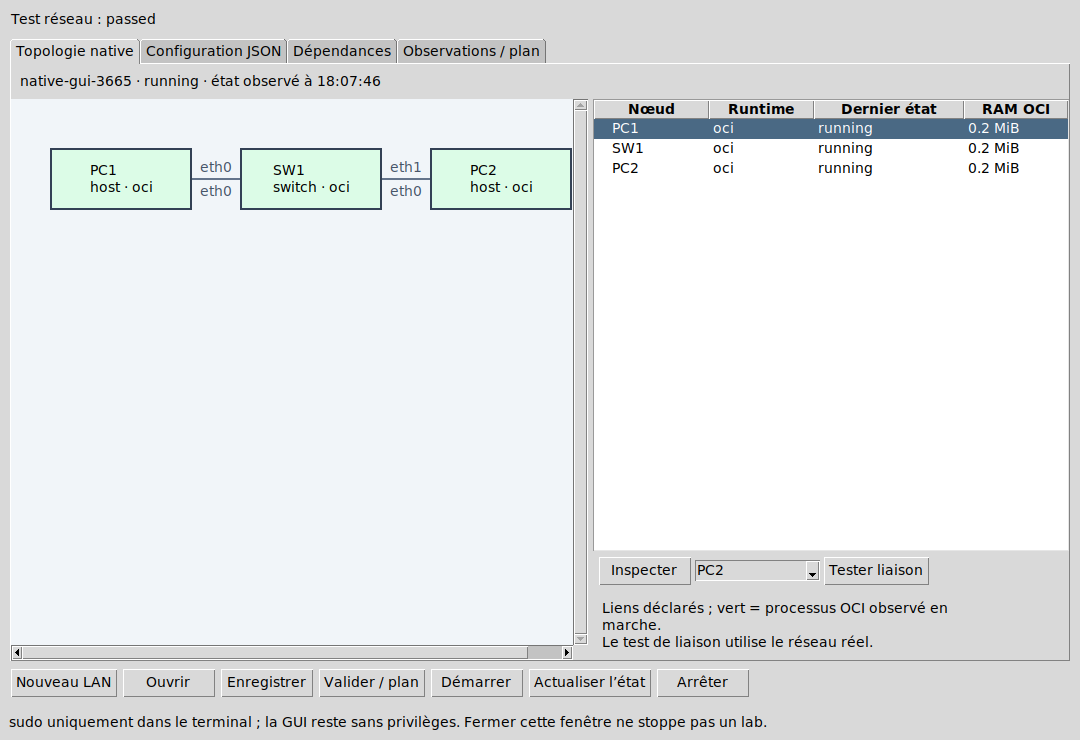
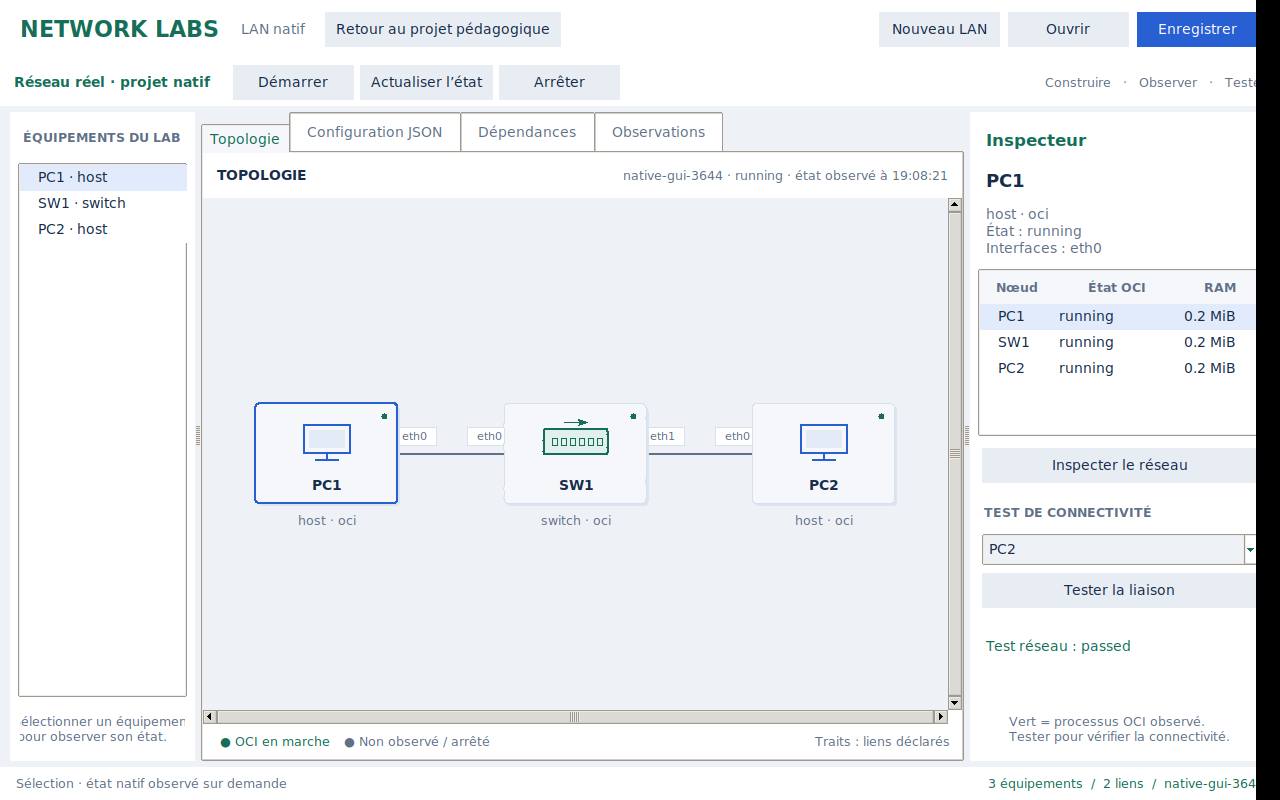
Retain verified embedded desktop screenshot and GUI handoff [skip ci]

diff --git a/docs/NATIVE_GUI_FLOW.md b/docs/NATIVE_GUI_FLOW.md
@@ -1,9 +1,9 @@
 # Native GUI lifecycle and observations
 
 The native workbench now has a topology view and a real backend result path.
-Open it from the desktop's existing native-lab entry. It remains distinct
-from the educational canvas and Wasm backend; opening this window does not
-change their selected execution engine.
+Open it from the desktop's existing native-lab entry. It uses the agreed
+main-window layout while keeping native state separate from the educational
+canvas and Wasm backend. Returning restores their existing project and engine.
 
 ## First usable flow
 
@@ -94,8 +94,8 @@ This is the actual Xvfb capture after real native verification.
 The public [operation report](images/native-gui-result.json) records the UI UID,
 result-file owners, native probe and stop outcome. The
 [provenance record](images/native-gui-provenance.json) binds both files to
-artifact 13528680261, source commit and run/job, with the verified original ZIP
-SHA-256 and individual file hashes. The full suite passed on the same commit.
+artifact 13533009570, source commit and run/job, with the verified original ZIP
+SHA-256 and individual file hashes. The desktop/native job passed on the same commit.
 
 ## Agreed desktop layout
 
@@ -113,3 +113,17 @@ list selects existing native devices; graphical creation/cabling and full
 per-device forms remain pending. JSON, dependencies and detailed observations
 are available as central tabs. This is alignment with the agreed layout, not
 completion of all GUI editing workflows.
+
+
+At source `a82b0571194f81759e29bf6e50d8e5b65dfd8664`, the
+[desktop/native job](https://github.com/sou1915/Network-LABS/actions/runs/42276785462/job/128095032017)
+passed 1033 regression cases in 47.945 seconds (116 environment/opt-in skips).
+The real native GUI test passed in 4.466 seconds using the actual main App and
+embedded native workspace, including return to the preserved model project.
+It verified three running OCI devices, kernel inspection, bidirectional ICMP,
+six private user-owned responses, direct root-state denial and confirmed
+teardown without callback errors or host-network leaks. The screenshot and
+report above now show this embedded layout rather than the earlier window.
+Local full regression passed 1033 cases in 30.311 seconds (166 skips, including
+Tk because the local environment has no display); desktop execution was
+verified in CI. Interactive password-prompt and hardware acceptance remain open.

diff --git a/docs/PROJECT_STATUS.md b/docs/PROJECT_STATUS.md
@@ -5,7 +5,9 @@ defer advanced extensions, then integrate the native GUI. The frozen
 [LAN core acceptance gate](LAN_CORE_ACCEPTANCE.md) now controls that transition.
 It is accepted: **7/7 essential checks passed** on one source revision. Native
 GUI integration is in progress: the first native lifecycle/observation/traffic
-flow is verified; node/link editing and basic configuration forms are next.
+flow is verified. Its layout now follows the agreed main desktop (equipment
+left, topology centre, inspector right); node/link editing and basic
+configuration forms are next.
 Older broad-catalogue percentages below
 are historical planning estimates, not a completion counter for this gate.
 No protocol/security assertion is relaxed by this scope decision.
@@ -15,6 +17,14 @@ claim it has been merged into the older prototype branch. Use the native
 guides on this branch for the recent engine features.
 
 ## Validation checkpoint
+
+The agreed embedded desktop layout passed at
+`a82b0571194f81759e29bf6e50d8e5b65dfd8664` in the
+[desktop/native job](https://github.com/sou1915/Network-LABS/actions/runs/42276785462/job/128095032017).
+Regression passed 1033 cases (47.945 s, 116 skips), and actual embedded Tk /
+sudo / OCI start-status-inspect-verify-stop plus restored model workspace
+passed in 4.466 s. The [current screenshot and proof](NATIVE_GUI_FLOW.md)
+show this layout; full graphical editing/forms remain pending.
 
 The [first native GUI flow](NATIVE_GUI_FLOW.md) passed at
 `cad63774a58a9d51aa3b73bc28d90b932fb7fc86` in

diff --git a/README.md b/README.md
@@ -38,10 +38,13 @@ et [couverture exacte des profils LAN natifs](docs/LAN_PROTOCOL_COVERAGE.md).
 Les estimations de progression ne sont pas des pourcentages de couverture des tests.
 
 **Fichier → Micro-nodes natifs · runtimes / manifest**, ou
-`python3 -m network_labs --native-lab`, ouvre le diagnostic des runtimes et un
-éditeur de lab JSON avec validation et budget mémoire cible. Le laboratoire
-natif est distinct du canvas pédagogique : il ne convertit pas automatiquement
-les modèles constructeur ni leurs configurations.
+`python3 -m network_labs --native-lab`, ouvre le LAN natif dans la fenêtre principale : équipements à gauche,
+topologie au centre et inspecteur à droite, selon la disposition existante.
+Démarrage/état/inspection, test ICMP réel et arrêt sont disponibles ; JSON,
+dépendances et plan mémoire restent accessibles par onglets. Le bouton de
+retour restaure le projet pédagogique. Le laboratoire natif garde son propre
+état : il ne convertit pas automatiquement les modèles constructeur ni leurs
+configurations. Voir la [capture réelle et les limites GUI](docs/NATIVE_GUI_FLOW.md).
 
 Le nouveau gestionnaire peut démarrer des **containers OCI/crun persistants**,
 relier leurs namespaces par veth et lancer des **microVMs Firecracker** optionnelles

diff --git a/docs/CODEX_HANDOFF.md b/docs/CODEX_HANDOFF.md
@@ -12,6 +12,14 @@ flow, capture its real native screenshot, and keep supplying screenshots after
 GUI additions. Graphical node/link creation and full device forms remain open.
 LAN core stays frozen; VXLAN remains later in the roadmap.
 
+Source `a82b0571194f81759e29bf6e50d8e5b65dfd8664` passed the
+[desktop/native job](https://github.com/sou1915/Network-LABS/actions/runs/42276785462/job/128095032017):
+1033 regression cases (47.945 s, 116 skips), plus real embedded App / sudo / OCI
+lifecycle and bidirectional ICMP (4.466 s), including return to the model
+workspace. Screenshot/report/provenance now refer to artifact 13533009570.
+Local full regression passed 1033 cases (30.311 s, 166 environment skips).
+
+
 ## Current priority: native GUI essentials — first flow verified — 2026-11-06
 
 LAN core remains accepted (7/7); advanced LAN extensions stay deferred. The

diff --git a/docs/LAN_NEXT_STEPS.md b/docs/LAN_NEXT_STEPS.md
@@ -24,7 +24,10 @@ for per-job evidence and exact limits. No runtime/test assertions were relaxed.
 
 The [first native GUI flow](NATIVE_GUI_FLOW.md) is now verified (run
 42267670327): topology, lifecycle, kernel observations and real ICMP from an
-unprivileged GUI. Continue native node/link editing/basic configuration.
+unprivileged GUI. The subsequent layout correction follows the agreed
+[main workspace](workspace_design.png): equipment left, topology centre,
+inspector right, with return to the preserved pedagogical project. Keep this
+layout for subsequent native node/link editing/basic configuration.
 Do not resume advanced LAN implementation
 or small validation refinements as prerequisites. Keep the remaining catalogue
 tracked for later and repair only demonstrated core regressions.
